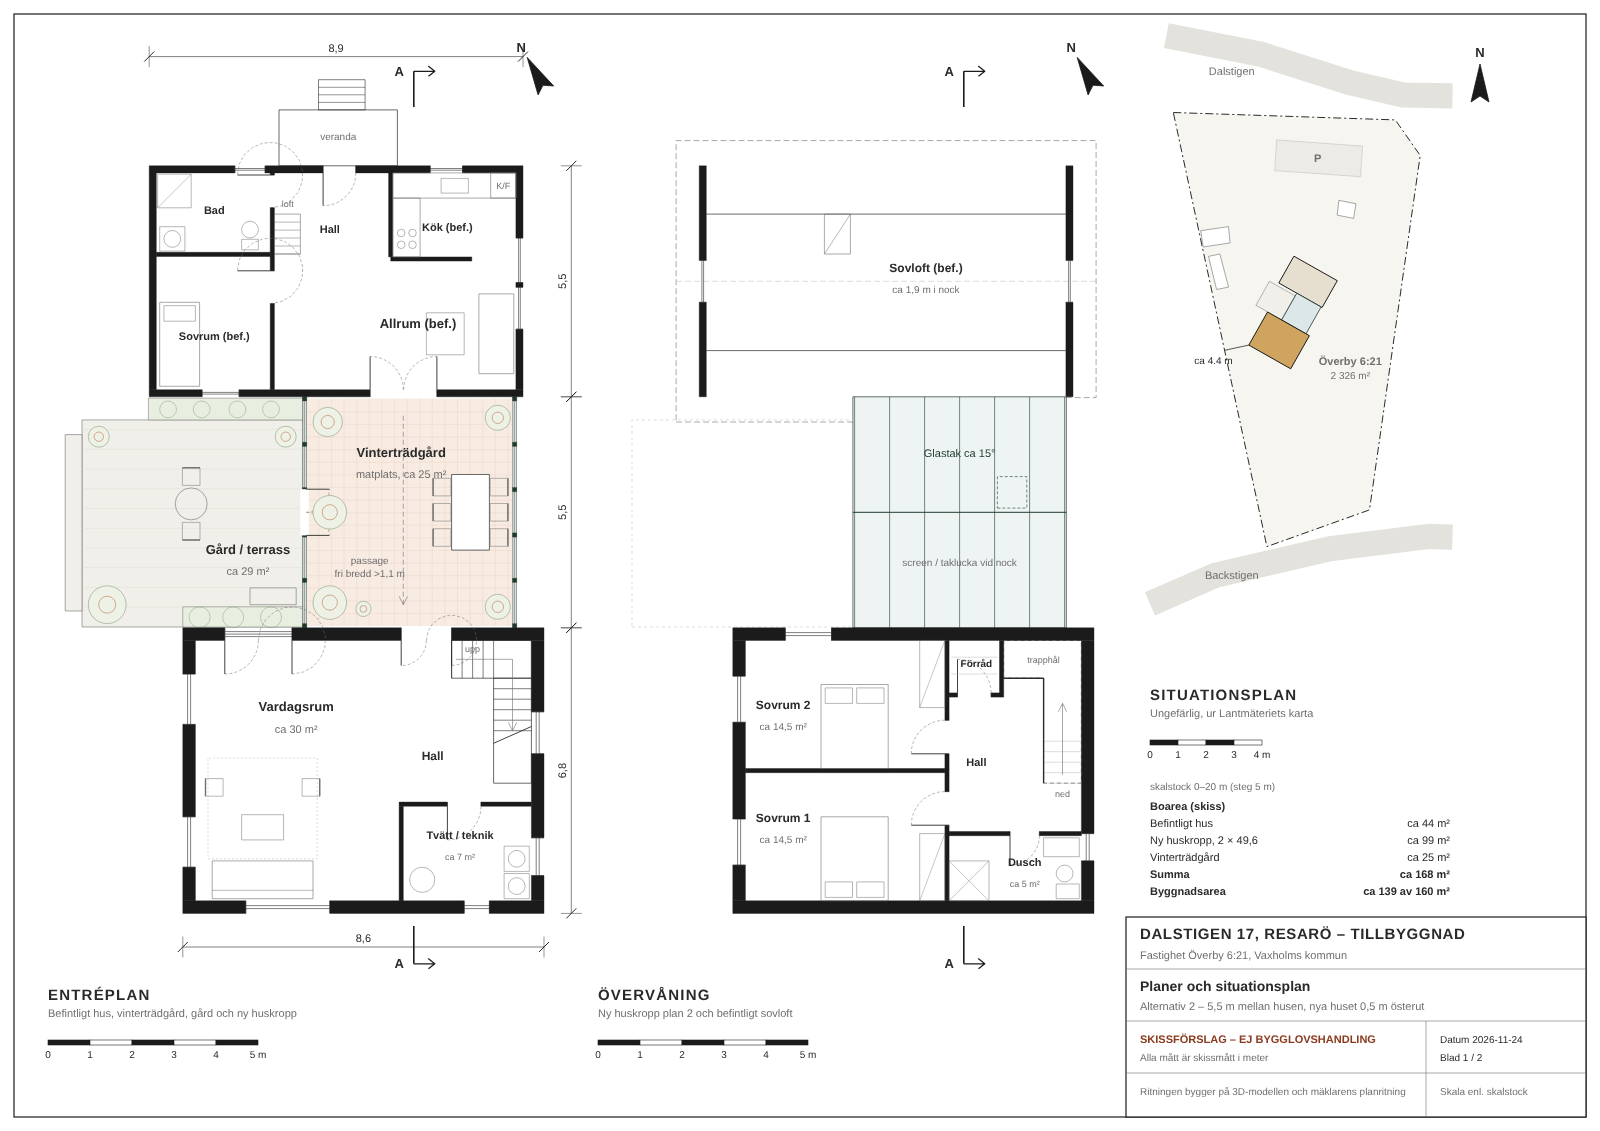
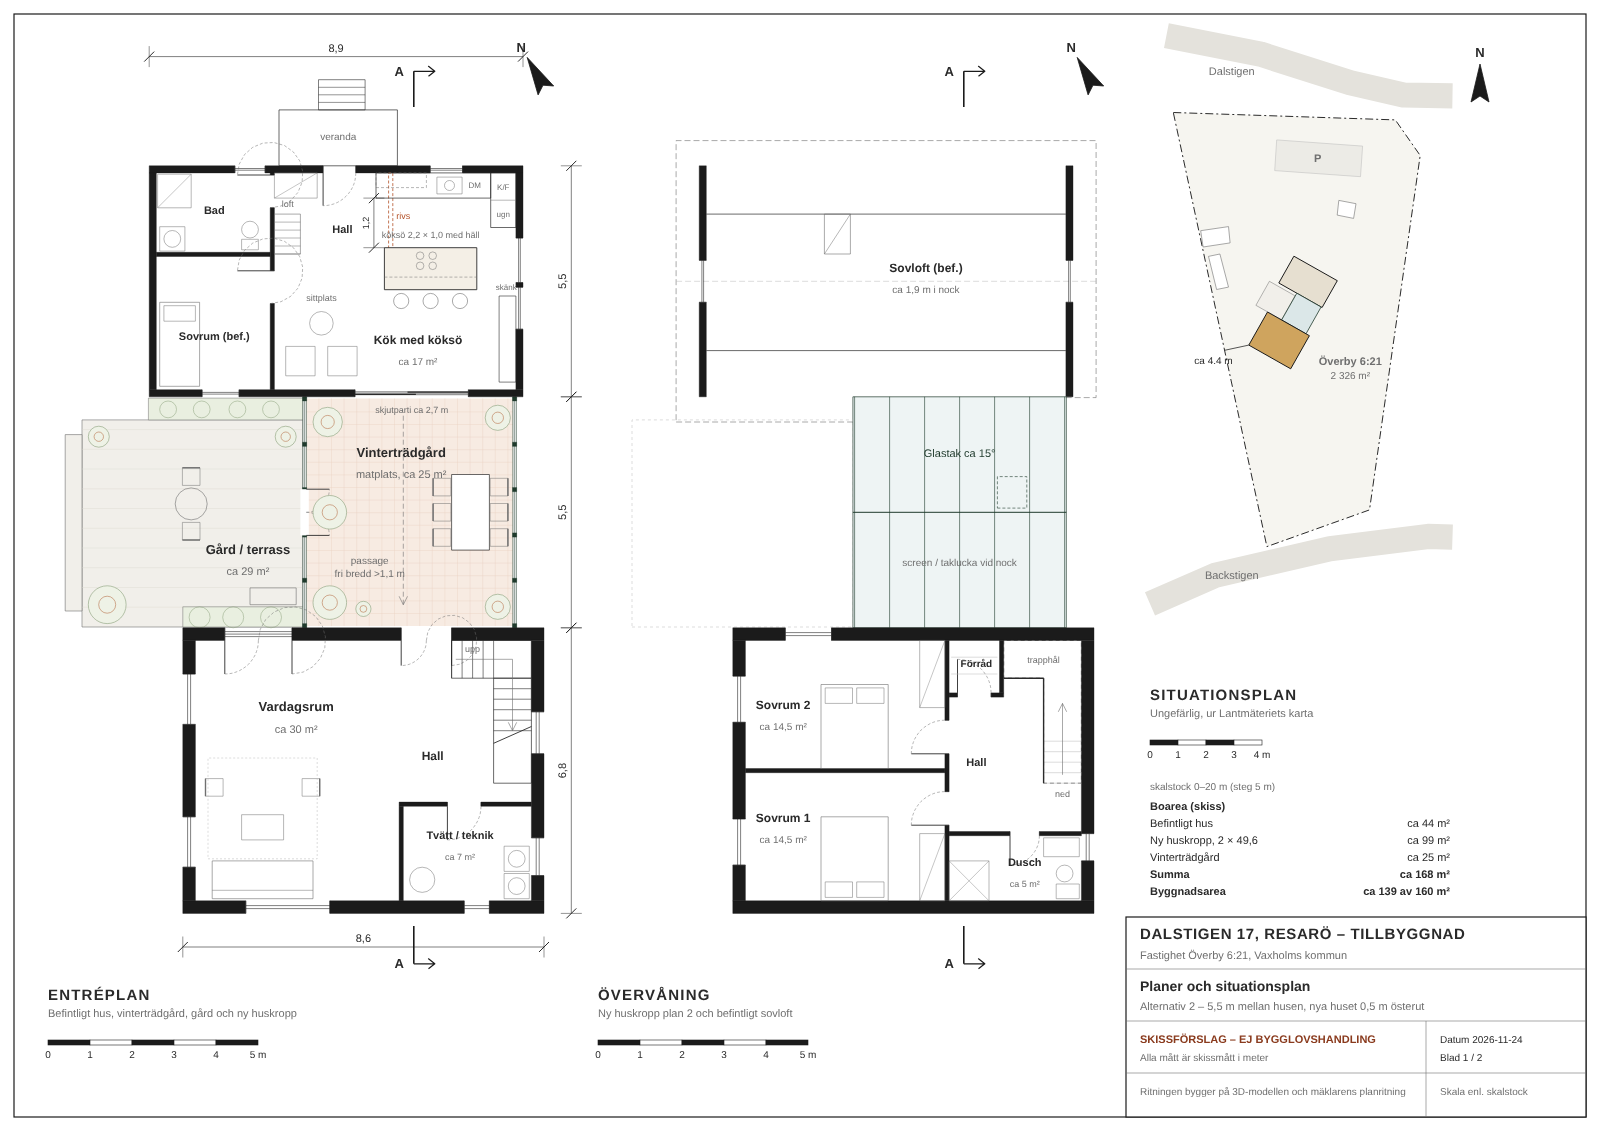
Open up the existing Dalstigen 17 kitchen with an island
The old living room becomes a kitchen of about 17 m2: kitchen partitions
removed, sink run kept on the north wall, tall units in the corner, a
2.2 x 1.0 m island with hob and bar stools, and a 2.7 m sliding opening
to the winter garden. Plan and section sheets updated.

Claude-Session: https://claude.ai/code/session_01FXdstgXnD7QS3dQmSLbGXN

Changed region(s): [[0.2188, 0.1547, 0.3438, 0.3714]]

diff --git a/dalstigen17/3d-modell/drawings.py b/dalstigen17/3d-modell/drawings.py
@@ -126,23 +126,32 @@ def plan_ground(el, ox, oy, S):
     v.line(6.05, -0.45, 6.05, -4.95, stroke=MID, sw=0.6, dash="5,3"); v.poly([(5.95, -4.75), (6.05, -4.95), (6.15, -4.75)], stroke=MID, sw=0.6, close=False)
     v.text(5.25, -3.9, "passage", 10, fill=MID); v.text(5.25, -4.2, "fri bredd >1,1 m", 10, fill=MID)
     # existing house
-    wall(v, 'x', 0, 8.9, 0, 0.17, [(1.26, 2.14, 'win'), (5.26, 6.85, 'door')])
+    wall(v, 'x', 0, 8.9, 0, 0.17, [(1.26, 2.14, 'win'), (4.9, 7.6, 'glass')])
     wall(v, 'x', 0, 8.9, 5.33, 5.5, [(2.04, 2.76, 'win'), (4.14, 4.92, 'door'), (6.69, 7.46, 'win')])
     wall(v, 'y', 0.17, 5.33, 0, 0.17, []); wall(v, 'y', 0.17, 5.33, 8.73, 8.9, [(1.61, 2.61, 'win'), (2.72, 3.78, 'win')])
     wall(v, 'y', 0.17, 5.33, 2.88, 2.98, [(2.22, 3.0, 'door'), (4.5, 5.28, 'door')]); wall(v, 'x', 0.17, 2.88, 3.34, 3.44, [])
-    wall(v, 'x', 5.75, 7.68, 3.23, 3.33, []); wall(v, 'y', 3.33, 5.33, 5.70, 5.80, [])
-    door(v, 4.14, 5.33, 0.78, 0, -90); door(v, 5.26, 0.17, 0.79, 0, 90); door(v, 6.85, 0.17, 0.79, 180, 90)
+    v.rect(5.70, 5.80, 3.33, 5.33, stroke="#b4532a", sw=0.8, dash="3,2")
+    v.text(6.05, 4.3, "rivs", 9, fill="#b4532a")
+    door(v, 4.14, 5.33, 0.78, 0, -90); v.line(4.9, 0.06, 6.35, 0.06, sw=1.2); v.line(6.15, 0.11, 7.6, 0.11, sw=1.2)
     door(v, 2.88, 3.0, 0.78, -90, 180); door(v, 2.88, 5.28, 0.78, -90, 180)
-    v.rect(5.8, 8.73, 4.73, 5.33, stroke=MID, sw=0.6); v.rect(5.8, 6.45, 3.33, 4.73, stroke=MID, sw=0.6)
-    for a, b in ((6.0, 3.62), (6.27, 3.62), (6.0, 3.9), (6.27, 3.9)): v.circle(a, b, 0.09, stroke=MID, sw=0.5)
-    v.rect(6.95, 7.6, 4.85, 5.2, stroke=MID, sw=0.5); v.rect(8.13, 8.73, 4.73, 5.33, stroke=MID, sw=0.6); v.text(8.43, 5.03, "K/F", 9, fill=MID)
-    v.rect(7.85, 8.68, 0.55, 2.45, stroke=MID, sw=0.6); v.rect(6.6, 7.5, 1.0, 2.0, stroke=MID, sw=0.5)
+    v.rect(5.4, 8.13, 4.73, 5.33, stroke=INK, sw=0.7); v.rect(5.4, 6.6, 4.98, 5.33, stroke=MID, sw=0.5, dash="3,2")
+    v.rect(6.85, 7.45, 4.83, 5.23, stroke=MID, sw=0.5); v.circle(7.15, 5.03, 0.12, stroke=MID, sw=0.5); v.text(7.75, 5.03, "DM", 8, fill=MID)
+    v.rect(8.13, 8.73, 4.03, 5.33, stroke=INK, sw=0.7); v.line(8.13, 4.68, 8.73, 4.68, stroke=MID, sw=0.5); v.text(8.43, 5.0, "K/F", 8, fill=MID); v.text(8.43, 4.35, "ugn", 8, fill=MID)
+    v.rect(5.6, 7.8, 2.55, 3.55, fill="#f4efe6", stroke=INK, sw=0.9); v.line(5.6, 2.85, 7.8, 2.85, stroke=MID, sw=0.5, dash="3,2")
+    for a, b in ((6.45, 3.12), (6.75, 3.12), (6.45, 3.36), (6.75, 3.36)): v.circle(a, b, 0.09, stroke=MID, sw=0.5)
+    for a in (6.0, 6.7, 7.4): v.circle(a, 2.28, 0.18, stroke=MID, sw=0.6)
+    v.rect(8.33, 8.73, 0.35, 2.4, stroke=INK, sw=0.6); v.text(8.5, 2.62, "skänk", 8, fill=MID)
+    v.rect(3.25, 3.95, 0.5, 1.2, stroke=MID, sw=0.5); v.rect(4.25, 4.95, 0.5, 1.2, stroke=MID, sw=0.5); v.circle(4.1, 1.75, 0.28, stroke=MID, sw=0.5)
+    v.rect(2.98, 4.0, 4.73, 5.33, stroke=MID, sw=0.5); v.line(2.98, 4.73, 4.0, 5.33, stroke=MID, sw=0.4)
+    dim(v, 5.35, 3.55, 5.35, 4.73, "1,2", size=9, vertical=True)
+    v.text(6.25, -0.32, "skjutparti ca 2,7 m", 9, fill=MID)
     bed(v, 0.25, 1.2, 0.25, 2.25, 'n'); v.rect(0.2, 1.0, 4.5, 5.3, stroke=MID, sw=0.5); v.line(0.2, 4.5, 1.0, 5.3, stroke=MID, sw=0.4)
     v.rect(0.25, 0.85, 3.47, 4.05, stroke=MID, sw=0.5); v.circle(0.55, 3.76, 0.2, stroke=MID, sw=0.5)
     v.rect(2.2, 2.6, 3.5, 3.75, stroke=MID, sw=0.5); v.circle(2.4, 3.98, 0.2, stroke=MID, sw=0.5)
     for i in range(5): v.line(2.98, 3.4 + 0.19 * i, 3.6, 3.4 + 0.19 * i, stroke=MID, sw=0.5)
     v.rect(2.98, 3.6, 3.4, 4.35, stroke=MID, sw=0.6); v.text(3.3, 4.6, "loft", 9, fill=MID)
-    lbl(v, 6.4, 1.75, "Allrum (bef.)"); lbl(v, 7.1, 4.05, "Kök (bef.)", size=11); lbl(v, 4.3, 4.0, "Hall", size=11)
+    lbl(v, 6.4, 1.15, "Kök med köksö", "ca 17 m²", size=12); v.text(6.7, 3.85, "köksö 2,2 × 1,0 med häll", 9, fill=MID)
+    lbl(v, 4.6, 4.0, "Hall", size=11); v.text(4.1, 2.35, "sittplats", 9, fill=MID)
     lbl(v, 1.55, 1.45, "Sovrum (bef.)", size=11); lbl(v, 1.55, 4.45, "Bad", size=11)
     v.rect(3.09, 5.91, 5.5, 6.83, stroke=INK, sw=0.7); v.rect(4.03, 5.14, 6.83, 7.55, stroke=INK, sw=0.6)
     for i in range(1, 4): v.line(4.03, 6.83 + 0.18 * i, 5.14, 6.83 + 0.18 * i, stroke=INK, sw=0.5)
@@ -302,13 +311,15 @@ ground(v, 6.0)
 for py in (0.25, 2.75, 5.25): v.rect(py - 0.15, py + 0.15, -0.68, -0.25, fill="#ffffff", stroke=MID, sw=0.6)
 v.rect(0.17, 5.33, -0.25, 0.0, fill="#cfc9bd", stroke=CUT, sw=0.6)
 v.rect(0.0, 0.17, 2.0, 2.2, fill=CUT, stroke=CUT, sw=0.4); v.line(0.0, 0.0, 0.0, 2.0, sw=0.6); v.line(0.17, 0.0, 0.17, 2.0, sw=0.6)
-v.rect(5.33, 5.5, -0.25, 2.2, fill=CUT, stroke=CUT, sw=0.4); v.rect(3.23, 3.33, 0.0, 2.3, fill=CUT, stroke=CUT, sw=0.4)
-v.rect(0.17, 5.33, 2.3, 2.55, fill=CUT, stroke=CUT, sw=0.4)
+v.rect(5.33, 5.5, -0.25, 2.2, fill=CUT, stroke=CUT, sw=0.4); v.rect(0.17, 5.33, 2.3, 2.55, fill=CUT, stroke=CUT, sw=0.4)
 roofcut(v, 0.0, 5.5, 2.55, T40, 0.25, 0.02, 0.6)
 v.rect(1.08, 1.12, 2.55, 3.12, fill=CUT, stroke=CUT, sw=0.3); v.rect(4.33, 4.37, 2.55, 3.15, fill=CUT, stroke=CUT, sw=0.3)
 v.rect(1.61, 2.61, 0.85, 2.0, stroke=LIGHT, sw=0.6); v.rect(2.72, 3.78, 0.85, 2.0, stroke=LIGHT, sw=0.6)
-v.rect(4.73, 5.33, 0.0, 0.9, stroke=LIGHT, sw=0.6); v.rect(4.98, 5.33, 1.45, 2.15, stroke=LIGHT, sw=0.6); v.rect(0.55, 2.45, 0.0, 0.85, stroke=LIGHT, sw=0.6)
-lbl(v, 1.9, 1.35, "Allrum (bef.)", size=12); lbl(v, 4.3, 1.35, "Kök", size=11); lbl(v, 2.75, 3.25, "Sovloft", size=11)
+v.rect(4.73, 5.33, 0.0, 0.9, fill="#cfc9bd", stroke=CUT, sw=0.6); v.rect(4.98, 5.33, 1.45, 2.15, fill="#cfc9bd", stroke=CUT, sw=0.6); v.rect(0.35, 2.4, 0.0, 0.9, stroke=LIGHT, sw=0.6)
+v.rect(2.55, 3.55, 0.0, 0.88, fill="#cfc9bd", stroke=CUT, sw=0.6); v.rect(2.25, 3.55, 0.88, 0.92, fill=CUT, stroke=CUT, sw=0.4)
+for py in (2.15, 2.45): v.line(py, 0.0, py, 0.65, stroke=MID, sw=0.6)
+v.line(2.08, 0.65, 2.52, 0.65, stroke=MID, sw=1.2)
+lbl(v, 1.35, 1.6, "Kök / umgänge", size=11); lbl(v, 3.05, 1.1, "Köksö", size=10); lbl(v, 2.75, 3.25, "Sovloft", size=11)
 # winter garden
 for z0, z1, f in ((-0.02, 0.0, "#c0704c"), (-0.12, -0.02, "#bdbab3"), (-0.42, -0.12, "#f3e6b8"), (-0.64, -0.42, "#d9d5cc")): v.rect(-5.45, -0.05, z0, z1, fill=f, stroke=CUT, sw=0.5)
 for yp in [-0.05 - (W - 0.1) * i / 5 for i in range(6)]:
@@ -350,7 +361,7 @@ level(v, -13.2, 0.0, "±0,00 färdigt golv"); level(v, -13.2, 2.88, "+2,88 golv 
 level(v, -13.2, 5.28, "+5,28 tak plan 2"); level(v, 7.5, ZR_OLD, "+%.2f nock (bef.)" % ZR_OLD, 'l'); level(v, M, GZR + 0.75, "+%.2f nock glastak" % GZR)
 dim(v, -12.9, 0.0, -12.9, 2.5, "2,5", vertical=True); dim(v, -12.9, 2.88, -12.9, 5.28, "2,4", vertical=True)
 for a0, a1, t in ((5.5, 0.0, "5,5"), (0.0, -5.5, "5,5"), (-5.5, -12.3, "6,8")): dim(v, a0, -1.25, a1, -1.25, t)
-for k, (a, b) in enumerate(((0.0, 2.55), (M, GZR + 0.35), (-5.5, 2.75), (-12.0, -0.3), (-8.0, 2.3), (-10.2, 6.6), (5.0, -0.5))):
+for k, (a, b) in enumerate(((0.0, 2.55), (M, GZR + 0.35), (-5.5, 2.75), (-12.0, -0.3), (-8.0, 2.3), (-10.2, 6.6), (5.0, -0.5), (0.45, 2.05))):
     x, y = v.P(a, b); el.append('<circle cx="%.1f" cy="%.1f" r="9" fill="%s"/>' % (x, y, GREEN)); T(el, x, y + 4, str(k + 1), 11, "middle", "bold", "#ffffff")
 title(el, 58, 520, "SEKTION A–A", "Befintligt allrum – vinterträdgård – nytt hus med trappa och övervåning")
 scalebar(el, 58, 548, S)
@@ -413,7 +424,8 @@ notes = ["Befintlig takfot kapas vid vägglivet. Ränndal och plåtbeslag tar va
          "Isolerad platta på mark med kantelement och golvvärme. Samma golvnivå ±0,00 i alla tre delar.",
          "Mellanbjälklag ca 380 mm. L-trappa med 4 + 10 steg och vilplan i hörnet.",
          "Isolerat vindsbjälklag under kallvind. Takstolar och röda lertegelpannor ca 32°.",
-         "Befintligt hus kvar på plintar. Loft under sadeltak ca 40°."]
+         "Befintligt hus kvar på plintar. Loft under sadeltak ca 40°.",
+         "Köksväggarna rivs. Öppningen mot vinterträdgården breddas till ca 2,7 m med skjutparti och limträbalk."]
 yy = ny + 28
 for i, n_ in enumerate(notes):
     el.append('<circle cx="%d" cy="%d" r="9" fill="%s"/>' % (nx + 9, yy - 4, GREEN)); T(el, nx + 9, yy, str(i + 1), 11, "middle", "bold", "#ffffff")
